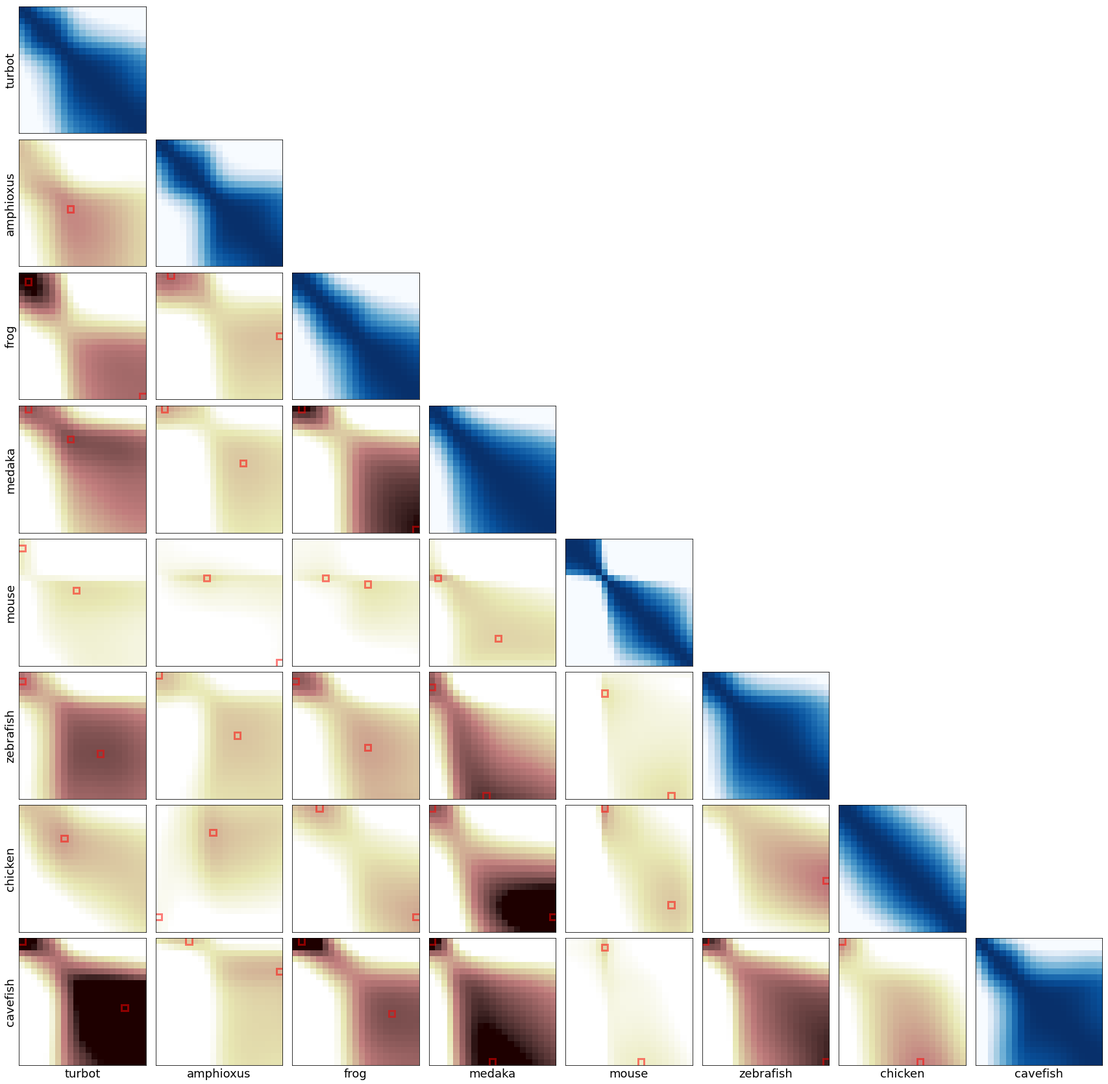
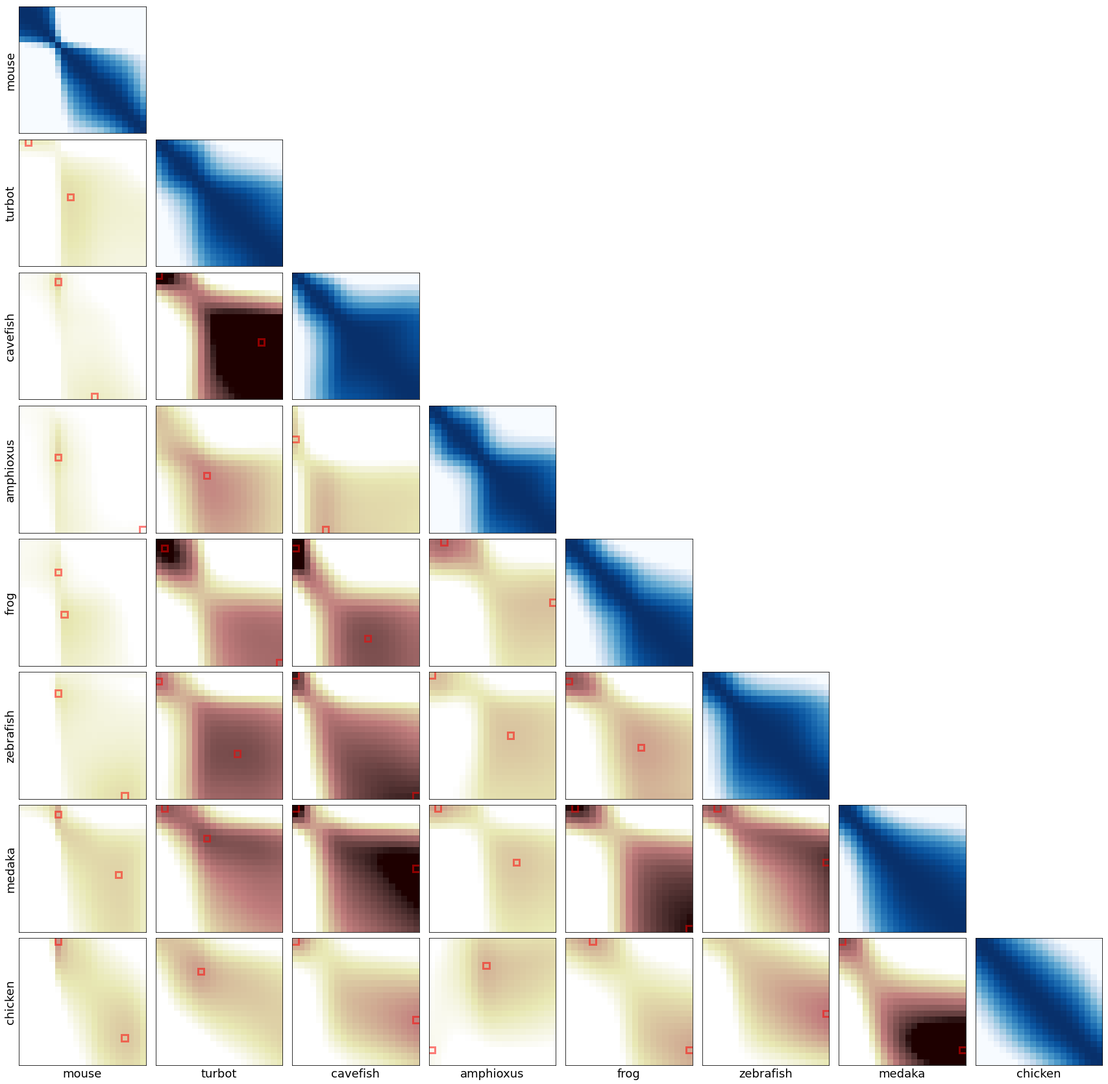
Deploying to gh-pages from  @ 322b406f0b7e0b28c99363307fc18a440250cf98 🚀

diff --git a/searchindex.js b/searchindex.js
@@ -1,1 +1,1 @@
-Search.setIndex({docnames:["README","analysis/README","analysis/conserved motifs","data/README","docs/introduction","docs/seq2science","results/README"],envversion:{"sphinx.domains.c":2,"sphinx.domains.changeset":1,"sphinx.domains.citation":1,"sphinx.domains.cpp":3,"sphinx.domains.index":1,"sphinx.domains.javascript":2,"sphinx.domains.math":2,"sphinx.domains.python":2,"sphinx.domains.rst":2,"sphinx.domains.std":1,"sphinx.ext.intersphinx":1,sphinx:56},filenames:["README.md","analysis/README.md","analysis/conserved motifs.ipynb","data/README.md","docs/introduction.md","docs/seq2science.ipynb","results/README.md"],objects:{},objnames:{},objtypes:{},terms:{"0148":5,"018":5,"019":5,"0734":5,"0th":2,"100":5,"1008546":5,"101":5,"102":5,"103":5,"1038":5,"104":5,"1042":2,"1043":2,"1044":2,"1045":2,"1046":2,"105":5,"1057":2,"1058":2,"1059":2,"106":5,"1060":2,"1061":2,"107":5,"108":5,"109":5,"110":5,"1108":2,"1109":2,"111":5,"1110":2,"1111":2,"1112":2,"11121":5,"112":5,"113":5,"114":5,"115":5,"116":5,"117":5,"118":5,"1186":5,"119":5,"120":5,"121":5,"122":5,"123":5,"124":5,"125":5,"126":5,"127":5,"128":5,"129":5,"130":5,"131":5,"132":5,"133":5,"134":5,"135":5,"136":5,"137":5,"1371":5,"138":5,"139":5,"140":5,"141":5,"142":5,"143":5,"144":5,"145":5,"146":5,"147":5,"148":5,"149":5,"150":5,"151":5,"152":5,"153":5,"154":5,"155":5,"156":5,"157":5,"158":5,"159":5,"15h_rep1":5,"15h_rep2":5,"15hpf":5,"160":5,"161":5,"162":5,"163":5,"164":5,"165":5,"166":5,"167":5,"168":5,"169":5,"170":5,"171":5,"172":5,"180":5,"192":5,"1x2yij":5,"204":5,"216":5,"228":5,"24hpf":5,"24hpf_rep1":5,"24hpf_rep2":5,"252":5,"256cell":5,"256cell_rep1":5,"256cell_rep2":5,"288":5,"2890":2,"2891":2,"2892":2,"2893":2,"2894":2,"2895":2,"300":5,"348":5,"3486":2,"3487":2,"3488":2,"3489":2,"3490":2,"36h_rep1":5,"36hpf":5,"36hpf_rep1":5,"36hpf_rep2":5,"396":5,"444":5,"48hpf":5,"48hpf_rep1":5,"48hpf_rep2":5,"5667":2,"5_rep1":5,"5_rep2":5,"5_rep3":5,"5_rep4":5,"5_rep5":5,"5somit":5,"5somites_rep1":5,"5somites_rep2":5,"60h_rep1":5,"60h_rep2":5,"60hpf":5,"664155010":5,"784":2,"785":2,"786":2,"787":2,"788":2,"80epiboli":5,"80epiboly_rep1":5,"80epiboly_rep2":5,"80epiboly_rep3":5,"80epiboly_rep4":5,"871":2,"872":2,"873":2,"874":2,"875":2,"8h_rep1":5,"8h_rep2":5,"8hpf":5,"8omites_rep4":5,"8som":5,"8som_rep1":5,"8som_rep2":5,"8somit":5,"8somites_rep1":5,"8somites_rep2":5,"8somites_rep3":5,"break":2,"export":5,"float":2,"import":[2,5],"int":2,"return":2,"short":0,"try":2,And:0,The:2,__getitem__:2,_engin:2,_get_label:2,_get_slice_axi:2,_getitem_axi:2,_getitem_lowerdim:2,_getitem_tupl:2,_handle_lowerdim_multi_index_axis0:2,_is_nested_tuple_index:2,_lib:2,_validate_kei:2,about:0,abov:2,acc:5,activ:[0,2],add_bar_left:2,add_bar_low:2,afterward:0,all:[0,1,3],anaconda:0,analysi:[0,4],append_ax:2,asm223467v1:[2,5],asm318616v1:[2,5],aspect:2,ass2nam:2,assembl:[2,5],assembly_1:2,assembly_1_i:2,assembly_2:2,assembly_2_i:2,assert:2,astyanax_mexicanu:[2,5],attributeerror:2,averag:2,axes:2,axes_grid1:2,axi:2,bar:2,base:2,bayesianridg:2,becaus:2,bl71nemr:2,blue:2,bottom:2,bralan2:5,call:2,can:[1,3],casted_kei:2,caught:2,caus:2,cax:2,center:2,cgi:5,check:2,cmap:2,col_idx:2,color:2,colorbar:2,column:2,com:5,comment:2,concat:2,conda:0,condit:5,continu:2,control:5,core:2,corr:2,correct:2,creat:0,cross:4,d1ea50e4c040:2,danrer11:[2,5],data:0,datafram:2,def:2,definit:2,der:0,descript:0,descriptive_nam:5,developmentalregul:2,df1:2,df2:2,df_tmp:2,dfs:2,dict:2,direct:2,directori:6,displai:5,divid:[0,2],doc:[0,5],document:4,doi:5,dome:5,dome_rep1:5,dome_rep2:5,dome_rep3:5,dome_rep4:5,dome_rep5:5,don:2,drop_level:2,drr138923:5,drr138924:5,drr138925:5,drr138926:5,drr138927:5,drr138928:5,drr138929:5,drr138930:5,drr138931:5,drr138932:5,drr138933:5,drr138934:5,drr138935:5,drr138936:5,drr138937:5,drr138938:5,drr138939:5,drr138940:5,drr138941:5,drr138942:5,drr138943:5,drr138944:5,drr138945:5,drr138946:5,drr138947:5,drr138948:5,drr138949:5,drr138950:5,drr138951:5,drr138952:5,drr138953:5,drr138954:5,drr138955:5,drr138956:5,drr138957:5,drr138958:5,drr138959:5,drr138960:5,drr138961:5,drr138962:5,drr138963:5,drr138964:5,drr138965:5,drr138966:5,drr138967:5,drr138968:5,drr138969:5,drr138970:5,drr138971:5,drr138972:5,drr138973:5,drr138974:5,drr138975:5,drr138976:5,drr138977:5,drr138978:5,drr138979:5,drr138980:5,drr138981:5,drr138982:5,drr138983:5,drr138984:5,drr138985:5,drr138986:5,drr138987:5,drr138988:5,drr138989:5,drr138990:5,drr138991:5,drr138992:5,drr138993:5,drr138994:5,drr138995:5,drr138996:5,drr138997:5,drr138998:5,drr138999:5,drr139001:5,drr139002:5,earli:2,els:2,end:2,end_col:2,enumer:2,env:[0,2],environ:0,equal:2,err:2,everyth:2,except:2,fail:2,fall:2,fals:2,fig:2,figsiz:2,file:1,first:0,fix:2,follow:2,fontsiz:2,format:[2,5],found:[1,3],from:2,gener:2,geo:5,get_bar:2,get_item:2,get_loc:2,get_loc_level:2,get_outlin:2,get_valu:2,gid:5,gimm:2,gimme_smooth:2,glob:2,global:2,googl:5,google_spreadsheet:5,gov:5,grcg6a:[2,5],grcm39:5,gsm2837480:5,gsm2837481:5,gsm2837482:5,gsm2837483:5,gsm2837484:5,gsm2837485:5,gsm2837486:5,gsm2837489:5,gsm2837490:5,gsm2837491:5,gsm2837492:5,gsm2837493:5,gsm2837494:5,gsm2837495:5,gsm2837496:5,gsm2837497:5,gsm2837498:5,gsm2837499:5,gsm2837500:5,gsm2837501:5,gsm2837502:5,gsm2837503:5,gsm2837504:5,gsm2837505:5,gsm2837506:5,gsm2837507:5,gsm2837508:5,gsm3494508:5,gsm3494509:5,gsm3494510:5,gsm3494511:5,gsm3756599:5,gsm3756600:5,gsm3756601:5,gsm3756602:5,gsm3756603:5,gsm3756604:5,gsm3756605:5,gsm3756606:5,gsm3756607:5,gsm3756608:5,gsm3756609:5,gsm3756610:5,gsm3756611:5,gsm3756612:5,gsm3756613:5,gsm3756614:5,gsm3756615:5,gsm4039581:5,gsm4039582:5,gsm4039583:5,gsm4039587:5,gsm4039588:5,gsm4039589:5,gsm4558119:5,gsm4558120:5,gsm4558121:5,gsm4558122:5,gsm4558123:5,gsm4558124:5,gsm4558125:5,gsm4558126:5,gsm4558127:5,gsm4558128:5,gsm4558129:5,gsm4558130:5,hashtabl:2,hashtable_class_help:2,have:[0,2],here:[0,1,2,3],hh11:5,hh11_rep1:5,hh11_rep2:5,hh11_rep3:5,hh16:5,hh16_rep1:5,hh16_rep2:5,hh16_rep3:5,hh19:5,hh19_rep1:5,hh19_rep2:5,hh19_rep3:5,hh24:5,hh24_rep1:5,hh24_rep2:5,hh24_rep3:5,hh28:5,hh28_rep1:5,hh28_rep2:5,hh28_rep3:5,hh32:5,hh32_rep1:5,hh32_rep2:5,hh32_rep3:5,hh38:5,hh38_rep1:5,hh38_rep2:5,hh38_rep3:5,hh6:5,hh6_rep1:5,hh6_rep2:5,hh6_rep3:5,high:5,high_rep1:5,high_rep2:5,high_rep3:5,hpf:5,hspace:2,http:5,iloc:2,index:2,index_col:2,indexengin:2,indexingerror:2,input:2,intervaltre:2,introduct:2,ipython:2,isinst:2,isnan:2,item:2,jmt_nkldjeu8m2jq4ojyexi:5,journal:5,kei:2,keyerror:2,label:2,last:2,late:2,left:2,len:2,level:2,lib:2,linewidth:2,list:2,live:4,load:2,loc:2,lookup:2,maarten:0,make:[0,2],make_axes_locat:2,matplotlib:2,matshow:2,max_row:5,maxima:2,mean:2,method:2,miniconda:2,minor:2,mm10:2,modul:2,most:2,mpl_toolkit:2,nan:5,ncbi:5,ncol:2,ndarrai:2,ndenumer:2,necessari:2,need:2,never:2,new_index:2,newest:2,nice:2,nih:5,nlm:5,none:[2,5],nr_assembl:2,nrow:2,numpi:2,obj:2,oblong:5,oblong_rep1:5,oblong_rep2:5,oblong_rep3:5,off:2,onli:2,org:5,our:0,out:2,outlin:2,p_start:2,p_stop:2,packag:2,pad:2,panda:[2,5],param:2,pass:2,pgen:5,phase:2,phylo:5,phylo_rep1:5,phylo_rep2:5,pink_r:2,plot:2,plt:2,present:2,pretti:2,print:2,project:0,put:0,pxi:2,pyobjecthasht:2,pyplot:2,python3:2,pyx:2,queri:5,question:0,rais:2,rang:2,rank:2,raw:3,read_csv:[2,5],recent:2,relat:1,replic:5,result:0,right:2,s40851:5,s41467:5,s41586:5,sampl:5,samples_t:5,sand:0,scalar:2,scienc:0,scipi:2,score:2,section:2,self:2,sep:[2,5],set_aspect:2,set_opt:5,set_xlabel:2,set_xtick:2,set_ylabel:2,set_ytick:2,set_yticklabel:2,sf24hpf_2:5,sf24hpf_3:5,sf48hpf_2:5,sf48hpf_3:5,sf5ss_1:5,sf5ss_2:5,sf80e_1:5,sf80e_2:5,sf80e_3:5,shape:2,share:2,shield:5,shield_rep1:5,shield_rep2:5,shield_rep3:5,shield_rep4:5,should:[1,2],site:2,size:2,slice:2,slice_obj:2,snakemak:2,sort:2,speci:4,sphere:5,sphere_rep1:5,sphere_rep2:5,split:2,spreadsheet:5,st10:5,st11:5,st11_rep1:5,st11_rep2:5,st11_rep3:5,st11_rep4:5,st12:5,st12_rep1:5,st12_rep2:5,st13:5,st13_rep1:5,st13_rep2:5,st14:5,st15:5,st15_rep1:5,st15_rep2:5,st15_rep3:5,st15_rep4:5,st15_rep5:5,st16:5,st16_rep1:5,st16_rep2:5,st18:5,st19:5,st19_rep1:5,st19_rep2:5,st19_rep3:5,st19_rep4:5,st21:5,st21_rep1:5,st21_rep2:5,st21_rep3:5,st21_rep4:5,st21_rep5:5,st21_rep6:5,st24:5,st24_rep1:5,st24_rep2:5,st24_rep3:5,st25:5,st25_rep1:5,st25_rep2:5,st25_rep3:5,st25_rep4:5,st26:5,st26_rep1:5,st26_rep2:5,st28:5,st28_rep1:5,st28_rep2:5,st28_rep3:5,st28_rep4:5,st28_rep5:5,st29:5,st29_rep1:5,st29_rep2:5,st32:5,st32_rep1:5,st32_rep2:5,st32_rep3:5,st32_rep4:5,st32_rep5:5,st32_rep6:5,st32_rep7:5,st34:5,st34_rep1:5,st34_rep2:5,st36:5,st36_rep1:5,st36_rep2:5,st36_rep3:5,st36_rep4:5,st36_rep5:5,st38:5,st38_rep1:5,st38_rep2:5,st40:5,st40_rep1:5,st40_rep2:5,st40_rep3:5,st40_rep4:5,st40_rep5:5,st40_rep6:5,st40_rep7:5,st7:5,st8:5,st9:5,st9_rep2:5,start:2,stat:2,stop:2,store:6,straight:2,studi:5,subfold:0,subplot:2,subplots_adjust:2,summari:2,sure:[0,2],t80e_1:5,t80e_2:5,t8som_1:5,t8som_2:5,text:2,thi:[2,6],those:2,thru:2,time1:2,time:2,time_1_1:2,time_1_2:2,time_2_1:2,time_2_2:2,tmp:0,todo:2,toler:2,top:2,tphylo_1:5,tphylo_2:5,traceback:2,tshield_1:5,tshield_2:5,tsv:5,tup:2,tupl:2,txt:2,unpublished_intern:5,unpublished_tena_skarmeta:5,usr:2,util:2,valu:2,van:0,vandersand:0,vmax:2,vmin:2,welcom:4,where:2,which:6,work:2,write:2,wspace:2,www:5,xentro9:[2,5],xt_stage105_rep2:5,xt_stage105_rep3:5,xt_stage12_rep1:5,xt_stage12_rep2:5,xt_stage16_rep1:5,xt_stage16_rep2:5,xt_stage26_rep1:5,xt_stage26_rep2:5,xt_stage34_rep1:5,xt_stage34_rep2:5,xt_stage9_rep2:5,yaml:0,you:0,zlx5usbgfr2l_:5,zscore:2},titles:["DevelopmentalRegulation","Developmental Regulation\u2019s analysis","Cross-species conservation of motifs","Developmental regulation\u2019s data files","Developmental regulation","Preprocessing with seq2science","DevelopmentalRegulation\u2019s temporary files"],titleterms:{analysi:1,can:0,conserv:2,contact:0,cross:2,data:3,development:[1,3,4],developmentalregul:[0,6],file:[0,3,6],found:0,get:0,inform:0,instal:0,motif:2,preprocess:5,regul:[1,3,4],seq2scienc:5,speci:2,start:0,temporari:6,where:0,which:0}})
+Search.setIndex({docnames:["README","analysis/README","analysis/conserved motifs","data/README","docs/introduction","docs/seq2science","results/README"],envversion:{"sphinx.domains.c":2,"sphinx.domains.changeset":1,"sphinx.domains.citation":1,"sphinx.domains.cpp":3,"sphinx.domains.index":1,"sphinx.domains.javascript":2,"sphinx.domains.math":2,"sphinx.domains.python":2,"sphinx.domains.rst":2,"sphinx.domains.std":1,"sphinx.ext.intersphinx":1,sphinx:56},filenames:["README.md","analysis/README.md","analysis/conserved motifs.ipynb","data/README.md","docs/introduction.md","docs/seq2science.ipynb","results/README.md"],objects:{},objnames:{},objtypes:{},terms:{"0148":5,"018":5,"019":5,"0734":5,"100":5,"1008546":5,"101":5,"102":5,"103":5,"1038":5,"104":5,"105":5,"106":5,"107":5,"108":5,"109":5,"110":5,"111":5,"11121":5,"112":5,"113":5,"114":5,"115":5,"116":5,"117":5,"118":5,"1186":5,"119":5,"120":5,"121":5,"122":5,"123":5,"124":5,"125":5,"126":5,"127":5,"128":5,"129":5,"130":5,"131":5,"132":5,"133":5,"134":5,"135":5,"136":5,"137":5,"1371":5,"138":5,"139":5,"140":5,"141":5,"142":5,"143":5,"144":5,"145":5,"146":5,"147":5,"148":5,"149":5,"150":5,"151":5,"152":5,"153":5,"154":5,"155":5,"156":5,"157":5,"158":5,"159":5,"15h_rep1":5,"15h_rep2":5,"15hpf":5,"160":5,"161":5,"162":5,"163":5,"164":5,"165":5,"166":5,"167":5,"168":5,"169":5,"170":5,"171":5,"172":5,"180":5,"192":5,"1x2yij":5,"204":5,"216":5,"228":5,"24hpf":5,"24hpf_rep1":5,"24hpf_rep2":5,"252":5,"256cell":5,"256cell_rep1":5,"256cell_rep2":5,"288":5,"300":5,"348":5,"36h_rep1":5,"36hpf":5,"36hpf_rep1":5,"36hpf_rep2":5,"396":5,"444":5,"48hpf":5,"48hpf_rep1":5,"48hpf_rep2":5,"5_rep1":5,"5_rep2":5,"5_rep3":5,"5_rep4":5,"5_rep5":5,"5somit":5,"5somites_rep1":5,"5somites_rep2":5,"60h_rep1":5,"60h_rep2":5,"60hpf":5,"664155010":5,"80epiboli":5,"80epiboly_rep1":5,"80epiboly_rep2":5,"80epiboly_rep3":5,"80epiboly_rep4":5,"8h_rep1":5,"8h_rep2":5,"8hpf":5,"8omites_rep4":5,"8som":5,"8som_rep1":5,"8som_rep2":5,"8somit":5,"8somites_rep1":5,"8somites_rep2":5,"8somites_rep3":5,"break":2,"export":5,"float":2,"import":[2,5],"return":2,"short":0,And:0,about:0,acc:5,activ:[0,2],add_bar_left:2,add_bar_low:2,afterward:0,all:[0,1,3],anaconda:0,analysi:[0,4],append_ax:2,asm223467v1:[2,5],asm318616v1:[2,5],aspect:2,ass2nam:2,assembl:[2,5],assembly_1:2,assembly_1_i:2,assembly_2:2,assembly_2_i:2,assert:2,astyanax_mexicanu:[2,5],averag:2,axes:2,axes_grid1:2,axi:2,bar:2,bayesianridg:2,bl71nemr:2,blue:2,bottom:2,bralan2:5,can:[1,3],cax:2,center:2,cgi:5,cmap:2,col_idx:2,color:2,colorbar:2,column:2,com:5,comment:2,concat:2,conda:0,condit:5,continu:2,control:5,corr:2,correct:2,creat:0,cross:4,danrer11:[2,5],data:0,datafram:2,def:2,der:0,descript:0,descriptive_nam:5,df1:2,df2:2,df_tmp:2,dfs:2,dict:2,directori:6,displai:5,divid:[0,2],doc:[0,5],document:4,doi:5,dome:5,dome_rep1:5,dome_rep2:5,dome_rep3:5,dome_rep4:5,dome_rep5:5,drr138923:5,drr138924:5,drr138925:5,drr138926:5,drr138927:5,drr138928:5,drr138929:5,drr138930:5,drr138931:5,drr138932:5,drr138933:5,drr138934:5,drr138935:5,drr138936:5,drr138937:5,drr138938:5,drr138939:5,drr138940:5,drr138941:5,drr138942:5,drr138943:5,drr138944:5,drr138945:5,drr138946:5,drr138947:5,drr138948:5,drr138949:5,drr138950:5,drr138951:5,drr138952:5,drr138953:5,drr138954:5,drr138955:5,drr138956:5,drr138957:5,drr138958:5,drr138959:5,drr138960:5,drr138961:5,drr138962:5,drr138963:5,drr138964:5,drr138965:5,drr138966:5,drr138967:5,drr138968:5,drr138969:5,drr138970:5,drr138971:5,drr138972:5,drr138973:5,drr138974:5,drr138975:5,drr138976:5,drr138977:5,drr138978:5,drr138979:5,drr138980:5,drr138981:5,drr138982:5,drr138983:5,drr138984:5,drr138985:5,drr138986:5,drr138987:5,drr138988:5,drr138989:5,drr138990:5,drr138991:5,drr138992:5,drr138993:5,drr138994:5,drr138995:5,drr138996:5,drr138997:5,drr138998:5,drr138999:5,drr139001:5,drr139002:5,earli:2,els:2,end:2,end_col:2,enumer:2,env:0,environ:0,equal:2,everyth:2,fals:2,fig:2,figsiz:2,file:1,first:0,fix:2,fontsiz:2,format:[2,5],found:[1,3],from:2,geo:5,get_bar:2,get_outlin:2,gid:5,gimm:2,gimme_smooth:2,glob:2,global:2,googl:5,google_spreadsheet:5,gov:5,grcg6a:[2,5],grcm39:5,gsm2837480:5,gsm2837481:5,gsm2837482:5,gsm2837483:5,gsm2837484:5,gsm2837485:5,gsm2837486:5,gsm2837489:5,gsm2837490:5,gsm2837491:5,gsm2837492:5,gsm2837493:5,gsm2837494:5,gsm2837495:5,gsm2837496:5,gsm2837497:5,gsm2837498:5,gsm2837499:5,gsm2837500:5,gsm2837501:5,gsm2837502:5,gsm2837503:5,gsm2837504:5,gsm2837505:5,gsm2837506:5,gsm2837507:5,gsm2837508:5,gsm3494508:5,gsm3494509:5,gsm3494510:5,gsm3494511:5,gsm3756599:5,gsm3756600:5,gsm3756601:5,gsm3756602:5,gsm3756603:5,gsm3756604:5,gsm3756605:5,gsm3756606:5,gsm3756607:5,gsm3756608:5,gsm3756609:5,gsm3756610:5,gsm3756611:5,gsm3756612:5,gsm3756613:5,gsm3756614:5,gsm3756615:5,gsm4039581:5,gsm4039582:5,gsm4039583:5,gsm4039587:5,gsm4039588:5,gsm4039589:5,gsm4558119:5,gsm4558120:5,gsm4558121:5,gsm4558122:5,gsm4558123:5,gsm4558124:5,gsm4558125:5,gsm4558126:5,gsm4558127:5,gsm4558128:5,gsm4558129:5,gsm4558130:5,have:0,here:[0,1,2,3],hh11:5,hh11_rep1:5,hh11_rep2:5,hh11_rep3:5,hh16:5,hh16_rep1:5,hh16_rep2:5,hh16_rep3:5,hh19:5,hh19_rep1:5,hh19_rep2:5,hh19_rep3:5,hh24:5,hh24_rep1:5,hh24_rep2:5,hh24_rep3:5,hh28:5,hh28_rep1:5,hh28_rep2:5,hh28_rep3:5,hh32:5,hh32_rep1:5,hh32_rep2:5,hh32_rep3:5,hh38:5,hh38_rep1:5,hh38_rep2:5,hh38_rep3:5,hh6:5,hh6_rep1:5,hh6_rep2:5,hh6_rep3:5,high:5,high_rep1:5,high_rep2:5,high_rep3:5,hpf:5,hspace:2,http:5,iloc:2,index:2,index_col:2,introduct:2,isnan:2,item:2,jmt_nkldjeu8m2jq4ojyexi:5,journal:5,kei:2,late:2,left:2,len:2,linewidth:2,list:2,live:4,load:2,loc:2,maarten:0,make:[0,2],make_axes_locat:2,matplotlib:2,matshow:2,max_row:5,maxima:2,mean:2,method:2,minor:2,mm10:2,mpl_toolkit:2,nan:5,ncbi:5,ncol:2,ndenumer:2,necessari:2,newest:2,nice:2,nih:5,nlm:5,none:[2,5],nr_assembl:2,nrow:2,numpi:2,oblong:5,oblong_rep1:5,oblong_rep2:5,oblong_rep3:5,off:2,org:5,our:0,out:2,outlin:2,p_start:2,p_stop:2,pad:2,panda:[2,5],param:2,pgen:5,phase:2,phylo:5,phylo_rep1:5,phylo_rep2:5,pink_r:2,plot:2,plt:2,pretti:2,print:2,project:0,put:0,pyplot:2,queri:5,question:0,rang:2,rank:2,raw:3,read_csv:[2,5],relat:1,replic:5,result:0,right:2,s40851:5,s41467:5,s41586:5,sampl:5,samples_t:5,sand:0,scienc:0,scipi:2,score:2,sep:[2,5],set_aspect:2,set_opt:5,set_xlabel:2,set_xtick:2,set_ylabel:2,set_ytick:2,set_yticklabel:2,sf24hpf_2:5,sf24hpf_3:5,sf48hpf_2:5,sf48hpf_3:5,sf5ss_1:5,sf5ss_2:5,sf80e_1:5,sf80e_2:5,sf80e_3:5,shape:2,shield:5,shield_rep1:5,shield_rep2:5,shield_rep3:5,shield_rep4:5,should:[1,2],size:2,snakemak:2,sort:2,speci:4,sphere:5,sphere_rep1:5,sphere_rep2:5,split:2,spreadsheet:5,st10:5,st11:5,st11_rep1:5,st11_rep2:5,st11_rep3:5,st11_rep4:5,st12:5,st12_rep1:5,st12_rep2:5,st13:5,st13_rep1:5,st13_rep2:5,st14:5,st15:5,st15_rep1:5,st15_rep2:5,st15_rep3:5,st15_rep4:5,st15_rep5:5,st16:5,st16_rep1:5,st16_rep2:5,st18:5,st19:5,st19_rep1:5,st19_rep2:5,st19_rep3:5,st19_rep4:5,st21:5,st21_rep1:5,st21_rep2:5,st21_rep3:5,st21_rep4:5,st21_rep5:5,st21_rep6:5,st24:5,st24_rep1:5,st24_rep2:5,st24_rep3:5,st25:5,st25_rep1:5,st25_rep2:5,st25_rep3:5,st25_rep4:5,st26:5,st26_rep1:5,st26_rep2:5,st28:5,st28_rep1:5,st28_rep2:5,st28_rep3:5,st28_rep4:5,st28_rep5:5,st29:5,st29_rep1:5,st29_rep2:5,st32:5,st32_rep1:5,st32_rep2:5,st32_rep3:5,st32_rep4:5,st32_rep5:5,st32_rep6:5,st32_rep7:5,st34:5,st34_rep1:5,st34_rep2:5,st36:5,st36_rep1:5,st36_rep2:5,st36_rep3:5,st36_rep4:5,st36_rep5:5,st38:5,st38_rep1:5,st38_rep2:5,st40:5,st40_rep1:5,st40_rep2:5,st40_rep3:5,st40_rep4:5,st40_rep5:5,st40_rep6:5,st40_rep7:5,st7:5,st8:5,st9:5,st9_rep2:5,start:2,stat:2,stop:2,store:6,studi:5,subfold:0,subplot:2,subplots_adjust:2,summari:2,sure:[0,2],t80e_1:5,t80e_2:5,t8som_1:5,t8som_2:5,text:2,thi:6,time1:2,time:2,time_1_1:2,time_1_2:2,time_2_1:2,time_2_2:2,tmp:0,todo:2,top:2,tphylo_1:5,tphylo_2:5,tshield_1:5,tshield_2:5,tsv:5,txt:2,unpublished_intern:5,unpublished_tena_skarmeta:5,util:2,valu:2,van:0,vandersand:0,vmax:2,vmin:2,welcom:4,where:2,which:6,work:2,write:2,wspace:2,www:5,xentro9:[2,5],xt_stage105_rep2:5,xt_stage105_rep3:5,xt_stage12_rep1:5,xt_stage12_rep2:5,xt_stage16_rep1:5,xt_stage16_rep2:5,xt_stage26_rep1:5,xt_stage26_rep2:5,xt_stage34_rep1:5,xt_stage34_rep2:5,xt_stage9_rep2:5,yaml:0,you:0,zlx5usbgfr2l_:5,zscore:2},titles:["DevelopmentalRegulation","Developmental Regulation\u2019s analysis","Cross-species conservation of motifs","Developmental regulation\u2019s data files","Developmental regulation","Preprocessing with seq2science","DevelopmentalRegulation\u2019s temporary files"],titleterms:{analysi:1,can:0,conserv:2,contact:0,cross:2,data:3,development:[1,3,4],developmentalregul:[0,6],file:[0,3,6],found:0,get:0,inform:0,instal:0,motif:2,preprocess:5,regul:[1,3,4],seq2scienc:5,speci:2,start:0,temporari:6,where:0,which:0}})

diff --git a/analysis/conserved motifs.html b/analysis/conserved motifs.html
@@ -277,86 +277,7 @@
 </div>
 </div>
 <div class="cell_output docutils container">
-<div class="output traceback highlight-ipythontb notranslate"><div class="highlight"><pre><span></span><span class="gt">---------------------------------------------------------------------------</span>
-<span class="ne">KeyError</span><span class="g g-Whitespace">                                  </span>Traceback (most recent call last)
-<span class="nn">/usr/share/miniconda/envs/DevelopmentalRegulation/lib/python3.8/site-packages/pandas/core/indexes/base.py</span> in <span class="ni">get_loc</span><span class="nt">(self, key, method, tolerance)</span>
-<span class="g g-Whitespace">   </span><span class="mi">2890</span>             <span class="k">try</span><span class="p">:</span>
-<span class="ne">-&gt; </span><span class="mi">2891</span>                 <span class="k">return</span> <span class="bp">self</span><span class="o">.</span><span class="n">_engine</span><span class="o">.</span><span class="n">get_loc</span><span class="p">(</span><span class="n">casted_key</span><span class="p">)</span>
-<span class="g g-Whitespace">   </span><span class="mi">2892</span>             <span class="k">except</span> <span class="ne">KeyError</span> <span class="k">as</span> <span class="n">err</span><span class="p">:</span>
-
-<span class="nn">pandas/_libs/index.pyx</span> in <span class="ni">pandas._libs.index.IndexEngine.get_loc</span><span class="nt">()</span>
-
-<span class="nn">pandas/_libs/index.pyx</span> in <span class="ni">pandas._libs.index.IndexEngine.get_loc</span><span class="nt">()</span>
-
-<span class="nn">pandas/_libs/hashtable_class_helper.pxi</span> in <span class="ni">pandas._libs.hashtable.PyObjectHashTable.get_item</span><span class="nt">()</span>
-
-<span class="nn">pandas/_libs/hashtable_class_helper.pxi</span> in <span class="ni">pandas._libs.hashtable.PyObjectHashTable.get_item</span><span class="nt">()</span>
-
-<span class="ne">KeyError</span>: &#39;df2&#39;
-
-<span class="n">The</span> <span class="n">above</span> <span class="n">exception</span> <span class="n">was</span> <span class="n">the</span> <span class="n">direct</span> <span class="n">cause</span> <span class="n">of</span> <span class="n">the</span> <span class="n">following</span> <span class="n">exception</span><span class="p">:</span>
-
-<span class="ne">KeyError</span><span class="g g-Whitespace">                                  </span>Traceback (most recent call last)
-<span class="o">&lt;</span><span class="n">ipython</span><span class="o">-</span><span class="nb">input</span><span class="o">-</span><span class="mi">3</span><span class="o">-</span><span class="n">d1ea50e4c040</span><span class="o">&gt;</span> <span class="ow">in</span> <span class="o">&lt;</span><span class="n">module</span><span class="o">&gt;</span>
-<span class="g g-Whitespace">      </span><span class="mi">3</span> <span class="n">df1</span> <span class="o">=</span> <span class="n">dfs</span><span class="p">[</span><span class="s2">&quot;Bl71nemr&quot;</span><span class="p">]</span>
-<span class="g g-Whitespace">      </span><span class="mi">4</span> <span class="n">df2</span> <span class="o">=</span> <span class="n">dfs</span><span class="p">[</span><span class="s2">&quot;ASM318616v1&quot;</span><span class="p">]</span>
-<span class="ne">----&gt; </span><span class="mi">5</span> <span class="n">corr</span> <span class="o">=</span> <span class="n">pd</span><span class="o">.</span><span class="n">concat</span><span class="p">([</span><span class="n">df1</span><span class="p">,</span> <span class="n">df2</span><span class="p">],</span> <span class="n">axis</span><span class="o">=</span><span class="mi">1</span><span class="p">,</span> <span class="n">keys</span><span class="o">=</span><span class="p">[</span><span class="s1">&#39;df1&#39;</span><span class="p">,</span> <span class="s1">&#39;df2&#39;</span><span class="p">])</span><span class="o">.</span><span class="n">corr</span><span class="p">()</span><span class="o">.</span><span class="n">loc</span><span class="p">[</span><span class="s1">&#39;df2&#39;</span><span class="p">,</span> <span class="s1">&#39;df1&#39;</span><span class="p">]</span><span class="o">.</span><span class="n">T</span>
-<span class="g g-Whitespace">      </span><span class="mi">6</span> <span class="o">*</span><span class="n">outline</span><span class="p">,</span> <span class="n">_</span> <span class="o">=</span> <span class="n">util</span><span class="o">.</span><span class="n">get_outline</span><span class="p">(</span><span class="n">corr</span><span class="o">.</span><span class="n">values</span><span class="p">)</span>
-<span class="g g-Whitespace">      </span><span class="mi">7</span> <span class="n">ax</span><span class="o">.</span><span class="n">plot</span><span class="p">(</span><span class="o">*</span><span class="n">outline</span><span class="p">,</span> <span class="n">color</span><span class="o">=</span><span class="p">(</span><span class="mi">1</span><span class="p">,</span><span class="mi">0</span><span class="p">,</span><span class="mi">0</span><span class="p">,</span><span class="o">.</span><span class="mi">5</span><span class="p">),</span> <span class="n">linewidth</span><span class="o">=</span><span class="mi">3</span><span class="p">)</span>
-
-<span class="nn">/usr/share/miniconda/envs/DevelopmentalRegulation/lib/python3.8/site-packages/pandas/core/indexing.py</span> in <span class="ni">__getitem__</span><span class="nt">(self, key)</span>
-<span class="g g-Whitespace">    </span><span class="mi">871</span>                     <span class="c1"># AttributeError for IntervalTree get_value</span>
-<span class="g g-Whitespace">    </span><span class="mi">872</span>                     <span class="k">pass</span>
-<span class="ne">--&gt; </span><span class="mi">873</span>             <span class="k">return</span> <span class="bp">self</span><span class="o">.</span><span class="n">_getitem_tuple</span><span class="p">(</span><span class="n">key</span><span class="p">)</span>
-<span class="g g-Whitespace">    </span><span class="mi">874</span>         <span class="k">else</span><span class="p">:</span>
-<span class="g g-Whitespace">    </span><span class="mi">875</span>             <span class="c1"># we by definition only have the 0th axis</span>
-
-<span class="nn">/usr/share/miniconda/envs/DevelopmentalRegulation/lib/python3.8/site-packages/pandas/core/indexing.py</span> in <span class="ni">_getitem_tuple</span><span class="nt">(self, tup)</span>
-<span class="g g-Whitespace">   </span><span class="mi">1042</span>     <span class="k">def</span> <span class="nf">_getitem_tuple</span><span class="p">(</span><span class="bp">self</span><span class="p">,</span> <span class="n">tup</span><span class="p">:</span> <span class="n">Tuple</span><span class="p">):</span>
-<span class="g g-Whitespace">   </span><span class="mi">1043</span>         <span class="k">try</span><span class="p">:</span>
-<span class="ne">-&gt; </span><span class="mi">1044</span>             <span class="k">return</span> <span class="bp">self</span><span class="o">.</span><span class="n">_getitem_lowerdim</span><span class="p">(</span><span class="n">tup</span><span class="p">)</span>
-<span class="g g-Whitespace">   </span><span class="mi">1045</span>         <span class="k">except</span> <span class="n">IndexingError</span><span class="p">:</span>
-<span class="g g-Whitespace">   </span><span class="mi">1046</span>             <span class="k">pass</span>
-
-<span class="nn">/usr/share/miniconda/envs/DevelopmentalRegulation/lib/python3.8/site-packages/pandas/core/indexing.py</span> in <span class="ni">_getitem_lowerdim</span><span class="nt">(self, tup)</span>
-<span class="g g-Whitespace">    </span><span class="mi">784</span>                 <span class="c1"># We don&#39;t need to check for tuples here because those are</span>
-<span class="g g-Whitespace">    </span><span class="mi">785</span>                 <span class="c1">#  caught by the _is_nested_tuple_indexer check above.</span>
-<span class="ne">--&gt; </span><span class="mi">786</span>                 <span class="n">section</span> <span class="o">=</span> <span class="bp">self</span><span class="o">.</span><span class="n">_getitem_axis</span><span class="p">(</span><span class="n">key</span><span class="p">,</span> <span class="n">axis</span><span class="o">=</span><span class="n">i</span><span class="p">)</span>
-<span class="g g-Whitespace">    </span><span class="mi">787</span> 
-<span class="g g-Whitespace">    </span><span class="mi">788</span>                 <span class="c1"># We should never have a scalar section here, because</span>
-
-<span class="nn">/usr/share/miniconda/envs/DevelopmentalRegulation/lib/python3.8/site-packages/pandas/core/indexing.py</span> in <span class="ni">_getitem_axis</span><span class="nt">(self, key, axis)</span>
-<span class="g g-Whitespace">   </span><span class="mi">1108</span>         <span class="c1"># fall thru to straight lookup</span>
-<span class="g g-Whitespace">   </span><span class="mi">1109</span>         <span class="bp">self</span><span class="o">.</span><span class="n">_validate_key</span><span class="p">(</span><span class="n">key</span><span class="p">,</span> <span class="n">axis</span><span class="p">)</span>
-<span class="ne">-&gt; </span><span class="mi">1110</span>         <span class="k">return</span> <span class="bp">self</span><span class="o">.</span><span class="n">_get_label</span><span class="p">(</span><span class="n">key</span><span class="p">,</span> <span class="n">axis</span><span class="o">=</span><span class="n">axis</span><span class="p">)</span>
-<span class="g g-Whitespace">   </span><span class="mi">1111</span> 
-<span class="g g-Whitespace">   </span><span class="mi">1112</span>     <span class="k">def</span> <span class="nf">_get_slice_axis</span><span class="p">(</span><span class="bp">self</span><span class="p">,</span> <span class="n">slice_obj</span><span class="p">:</span> <span class="nb">slice</span><span class="p">,</span> <span class="n">axis</span><span class="p">:</span> <span class="nb">int</span><span class="p">):</span>
-
-<span class="nn">/usr/share/miniconda/envs/DevelopmentalRegulation/lib/python3.8/site-packages/pandas/core/indexing.py</span> in <span class="ni">_get_label</span><span class="nt">(self, label, axis)</span>
-<span class="g g-Whitespace">   </span><span class="mi">1057</span>     <span class="k">def</span> <span class="nf">_get_label</span><span class="p">(</span><span class="bp">self</span><span class="p">,</span> <span class="n">label</span><span class="p">,</span> <span class="n">axis</span><span class="p">:</span> <span class="nb">int</span><span class="p">):</span>
-<span class="g g-Whitespace">   </span><span class="mi">1058</span>         <span class="c1"># GH#5667 this will fail if the label is not present in the axis.</span>
-<span class="ne">-&gt; </span><span class="mi">1059</span>         <span class="k">return</span> <span class="bp">self</span><span class="o">.</span><span class="n">obj</span><span class="o">.</span><span class="n">xs</span><span class="p">(</span><span class="n">label</span><span class="p">,</span> <span class="n">axis</span><span class="o">=</span><span class="n">axis</span><span class="p">)</span>
-<span class="g g-Whitespace">   </span><span class="mi">1060</span> 
-<span class="g g-Whitespace">   </span><span class="mi">1061</span>     <span class="k">def</span> <span class="nf">_handle_lowerdim_multi_index_axis0</span><span class="p">(</span><span class="bp">self</span><span class="p">,</span> <span class="n">tup</span><span class="p">:</span> <span class="n">Tuple</span><span class="p">):</span>
-
-<span class="nn">/usr/share/miniconda/envs/DevelopmentalRegulation/lib/python3.8/site-packages/pandas/core/generic.py</span> in <span class="ni">xs</span><span class="nt">(self, key, axis, level, drop_level)</span>
-<span class="g g-Whitespace">   </span><span class="mi">3486</span>             <span class="n">loc</span><span class="p">,</span> <span class="n">new_index</span> <span class="o">=</span> <span class="bp">self</span><span class="o">.</span><span class="n">index</span><span class="o">.</span><span class="n">get_loc_level</span><span class="p">(</span><span class="n">key</span><span class="p">,</span> <span class="n">drop_level</span><span class="o">=</span><span class="n">drop_level</span><span class="p">)</span>
-<span class="g g-Whitespace">   </span><span class="mi">3487</span>         <span class="k">else</span><span class="p">:</span>
-<span class="ne">-&gt; </span><span class="mi">3488</span>             <span class="n">loc</span> <span class="o">=</span> <span class="bp">self</span><span class="o">.</span><span class="n">index</span><span class="o">.</span><span class="n">get_loc</span><span class="p">(</span><span class="n">key</span><span class="p">)</span>
-<span class="g g-Whitespace">   </span><span class="mi">3489</span> 
-<span class="g g-Whitespace">   </span><span class="mi">3490</span>             <span class="k">if</span> <span class="nb">isinstance</span><span class="p">(</span><span class="n">loc</span><span class="p">,</span> <span class="n">np</span><span class="o">.</span><span class="n">ndarray</span><span class="p">):</span>
-
-<span class="nn">/usr/share/miniconda/envs/DevelopmentalRegulation/lib/python3.8/site-packages/pandas/core/indexes/base.py</span> in <span class="ni">get_loc</span><span class="nt">(self, key, method, tolerance)</span>
-<span class="g g-Whitespace">   </span><span class="mi">2891</span>                 <span class="k">return</span> <span class="bp">self</span><span class="o">.</span><span class="n">_engine</span><span class="o">.</span><span class="n">get_loc</span><span class="p">(</span><span class="n">casted_key</span><span class="p">)</span>
-<span class="g g-Whitespace">   </span><span class="mi">2892</span>             <span class="k">except</span> <span class="ne">KeyError</span> <span class="k">as</span> <span class="n">err</span><span class="p">:</span>
-<span class="ne">-&gt; </span><span class="mi">2893</span>                 <span class="k">raise</span> <span class="ne">KeyError</span><span class="p">(</span><span class="n">key</span><span class="p">)</span> <span class="kn">from</span> <span class="nn">err</span>
-<span class="g g-Whitespace">   </span><span class="mi">2894</span> 
-<span class="g g-Whitespace">   </span><span class="mi">2895</span>         <span class="k">if</span> <span class="n">tolerance</span> <span class="ow">is</span> <span class="ow">not</span> <span class="kc">None</span><span class="p">:</span>
-
-<span class="ne">KeyError</span>: &#39;df2&#39;
-</pre></div>
-</div>
-<img alt="../_images/conserved motifs_3_1.png" src="../_images/conserved motifs_3_1.png" />
+<img alt="../_images/conserved motifs_3_0.png" src="../_images/conserved motifs_3_0.png" />
 </div>
 </div>
 <div class="cell docutils container">
